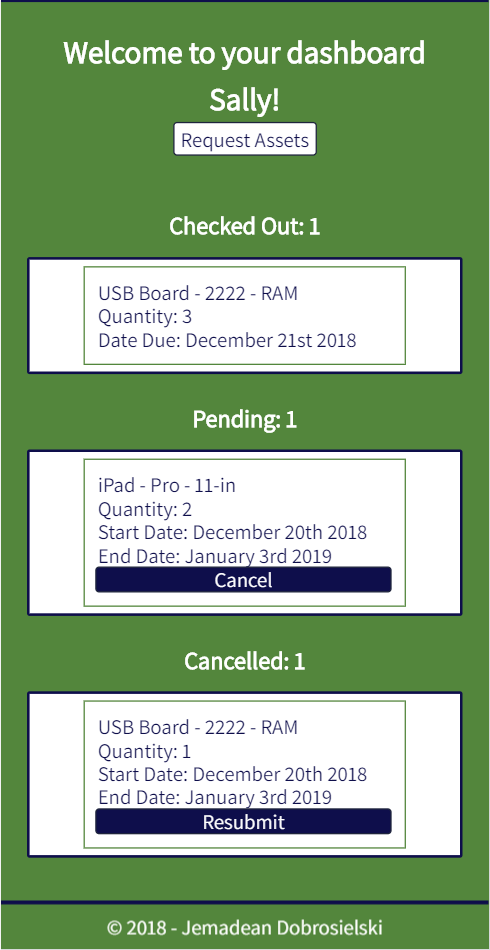
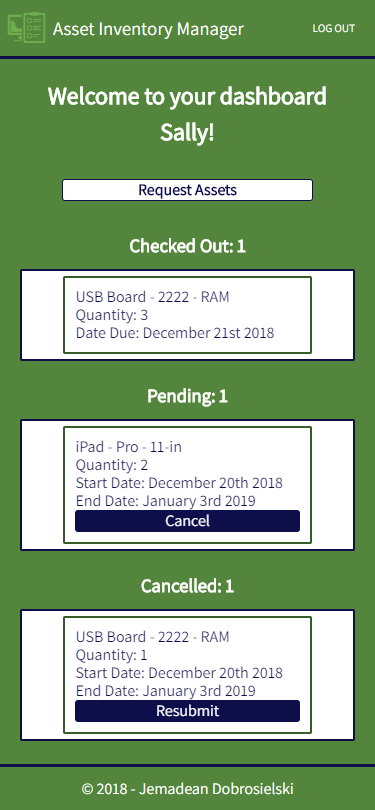
updated all readme imgs and made sure request form does not show once logged out

diff --git a/src/components/nav-bar.js b/src/components/nav-bar.js
@@ -35,8 +35,8 @@ export class NavBar extends React.Component {
     return (
       <nav role="navigation">
         <div className="logo">
-          <img className="icon" src="https://res.cloudinary.com/cozyspaces/image/upload/c_scale,h_55/v1544484708/aim-icon.png" alt="Assett Inventory Manager Icon" />
-          <a href="https://asset-manager-jem.herokuapp.com/" className='logo'>Asset Inventory Manager</a>
+          <img className="icon" src="https://res.cloudinary.com/cozyspaces/image/upload/c_scale,h_55/v1544484708/aim-icon.png" alt="Asset Inventory Manager Icon" />
+          <Link to="/" className='logo'>Asset Inventory Manager</Link>
         </div>
         {logInOutLink}
       </nav>

diff --git a/src/reducers/protected-data.js b/src/reducers/protected-data.js
@@ -14,10 +14,12 @@ export default function reducer(state = initialState, action) {
   if (action.type === FETCH_PROTECTED_DATA_SUCCESS) {
     return Object.assign({}, state, {
       data: action.data,
+      requesting: false,
       error: null
     });
   } else if (action.type === FETCH_PROTECTED_DATA_ERROR) {
     return Object.assign({}, state, {
+      requesting: false,
       error: action.error
     });
   } else if (action.type === TOGGLE_REQUESTING_ASSETS) {

diff --git a/src/actions/protected-data.js b/src/actions/protected-data.js
@@ -54,7 +54,7 @@ export const createRequest = request => (dispatch, getState) => {
         })
             .then(res => normalizeResponseErrors(res))
             .then(res => res.json()) 
-            .then((res) => dispatch(fetchProtectedDataSuccess(res)))
+            .then((data) => dispatch(fetchProtectedDataSuccess(data)))
             .catch(err => {
                 dispatch(fetchProtectedDataError(err));
             })

diff --git a/src/reducers/auth.js b/src/reducers/auth.js
@@ -10,6 +10,7 @@ const initialState = {
   authToken: null, // authToken !== null does not mean it has been validated
   currentUser: null,
   loading: false,
+  requesting: false,
   error: null
 };
 
@@ -38,6 +39,6 @@ export default function reducer(state = initialState, action) {
           loading: false,
           error: action.error
       });
-  }
+  } 
   return state;
 }

diff --git a/src/components/request-form.js b/src/components/request-form.js
@@ -11,7 +11,6 @@ export class RequestForm extends React.Component {
     const request = {type, model, version, quantity, start, end};
     return this.props
       .dispatch(createRequest(request))
-      .then(() => this.props.dispatch(toggleRequestingAssets()));
   }
   render() {
     return (

diff --git a/src/styles/index.css b/src/styles/index.css
@@ -114,7 +114,7 @@ button:hover {
 }
 
 @media screen and (min-width: 1024px){
-  main, nav {
+  main {
     font-size: 1.5vw;
   } 
 }
